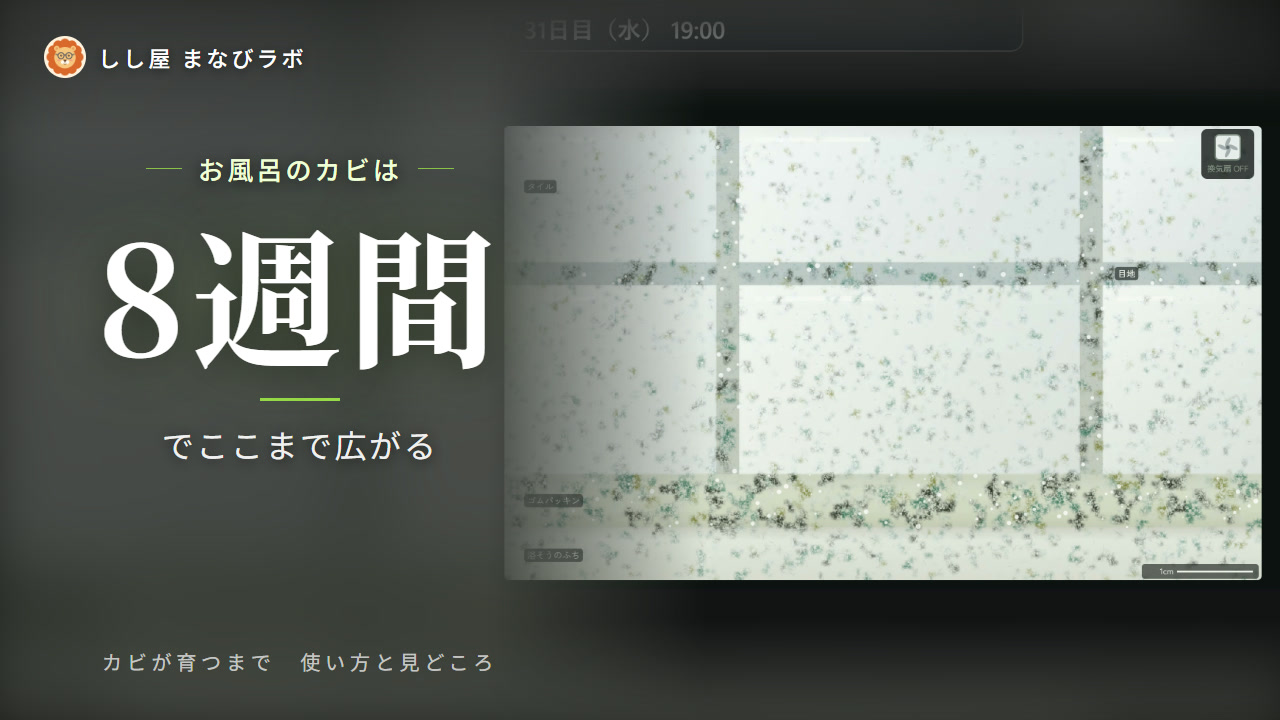
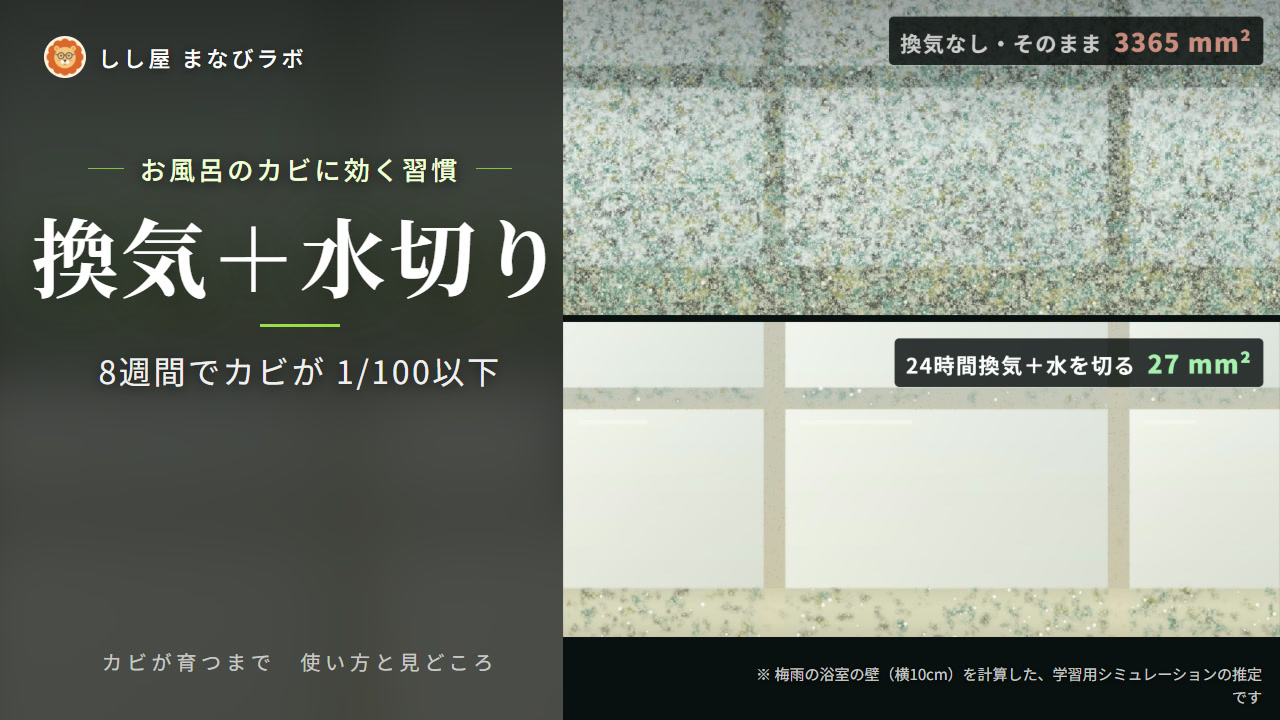
promo: カビのサムネイルを作りなおす（同じ壁・同じ8週間を換気なしと換気＋水切りでくらべる絵、文言「換気＋水切り」）

diff --git a/_dev/promo/mold-still.html b/_dev/promo/mold-still.html
@@ -1,0 +1,48 @@
+<!doctype html>
+<html lang="ja">
+<head>
+<meta charset="utf-8">
+<title>カビ: サムネイル用の絵（くらべる）</title>
+<!-- サムネイル用の絵 stills/mold-growth-compare.jpg（2160×3840）を作るページ。http://localhost:8765/_dev/promo/mold-still.html を
+     ヘッドレスの Chrome で 2160×3840 に撮る（--virtual-time-budget で箱庭の計算を待つ）。
+     同じ浴室の壁・同じ乱数で、梅雨の8週間を2つの習慣で計算し、上下に並べる（上: 換気なし・そのまま、下: 24時間換気＋水を切る）。
+     short-thumb.html は上半分（y 0〜1920）だけをくっきり見せるので、2つの帯はそこに入れる。数はアプリの記録の表と同じ W.stats.visArea -->
+<style>
+  html, body { margin: 0; width: 2160px; height: 3840px; overflow: hidden; background: #0b0f10; font-family: 'Noto Sans JP', 'Yu Gothic', sans-serif; }
+  .band { position: absolute; left: 0; width: 2160px; height: 950px; overflow: hidden; }
+  .band iframe { position: absolute; left: 0; top: 0; width: 3240px; height: 1425px; border: 0; }
+  #b1 { top: 0; } #b2 { top: 970px; }
+  .tag { position: absolute; right: 50px; top: 50px; padding: 18px 34px; border-radius: 14px; background: rgba(8,12,14,0.82);
+    color: #fff; font-size: 64px; font-weight: 700; letter-spacing: 0.06em; display: flex; gap: 34px; align-items: baseline; }
+  .tag b { font-size: 76px; }
+  #b1 .tag b { color: #ffb0a0; } #b2 .tag b { color: #a8f0b0; }
+</style>
+</head>
+<body>
+<div class="band" id="b1"><iframe></iframe><div class="tag"><span>換気なし・そのまま</span><b></b></div></div>
+<div class="band" id="b2"><iframe></iframe><div class="tag"><span>24時間換気＋水を切る</span><b></b></div></div>
+<script>
+const SET = [{ id: 'b1', habits: { fan: 'none', after: 'none' } }, { id: 'b2', habits: { fan: 'h24', after: 'squeegee' } }];
+for (const s of SET) {
+  const f = document.querySelector('#' + s.id + ' iframe');
+  f.onload = () => {
+    const w = f.contentWindow, M = w.__mk;
+    const st = w.document.createElement('style');
+    st.textContent = '#world{position:fixed!important;left:0!important;top:0!important;width:3240px!important;height:1425px!important;max-width:none!important;z-index:999}';
+    w.document.head.append(st);
+    M.UI.playing = false;
+    Object.assign(M.W.habits, { season: 'rainy', clean: 'none' }, s.habits);
+    w.restart();
+    Object.assign(M.VIEW, { hidden: false, moist: false, labels: false, zoom: 1, cx: 50, cy: 30 });
+    M.run(56 * 24);
+    M.frame(2, 0.03);
+    // 壁の枠（VIEW.frame）を横いっぱいに広げ、上を少し切る（目地の交わりとゴムパッキンが入る高さ）
+    const F = M.VIEW.frame, k = 2160 / F.w, cut = Math.max(0, F.h * k - 950) * 0.55;
+    Object.assign(f.style, { transformOrigin: '0 0', transform: `translate(0px, ${-cut}px) scale(${k}) translate(${-F.x}px, ${-F.y}px)` });
+    document.querySelector('#' + s.id + ' .tag b').textContent = M.W.stats.visArea.toFixed(0) + ' mm²';
+  };
+  f.src = '../../mold-growth/index.html?lang=ja';
+}
+</script>
+</body>
+</html>

diff --git a/_dev/promo/short-thumbs.js b/_dev/promo/short-thumbs.js
@@ -1,6 +1,7 @@
 // ショートのサムネイル（1080×1920）の中身。描くのは short-thumb.html、作るのは _dev/tools/make-short-thumbs.ps1（RULES 8.7）
 // t: ショートの mp4 から取るコマの秒。focus: 絵の中で見せたい点（0〜1、左上が 0,0）、zoom: 寄せる倍率（1 = 横いっぱい）
 // kicker: 上の小さな一言、big: いちばん大きな言葉（数字や驚き）、sub: 下の言葉。c1・c2: big の色（上から下へ）
+// wmask: false で横長の絵のふちをぼかさない（くらべる絵の札が消えないように）
 // still: mp4 のコマのかわりに使う絵（2160×3840、stills/）。note: 右下の小さな注（※。絵の演出をことわる）
 // 数字は動画・アプリで出している値だけ（想像で盛らない）
 window.SHORT_THUMBS = {
@@ -18,7 +19,8 @@ window.SHORT_THUMBS = {
   'ga-creatures':  { name: '進化の箱庭', t: 26, focus: [0.64, 0.31], zoom: 3.6, kicker: 'でたらめな生きものが', big: '40世代', sub: 'で走り方を身につける', c1: '#e8ffe0', c2: '#5ee35e' },
   'god-view':      { name: '神の視点マップ', t: 12, focus: [0.5, 0.38], zoom: 1.5, wfocus: [0.5, 0.34], kicker: 'ホイールひとつで', big: '宇宙の果て', sub: 'からクォークまで', c1: '#e3f4ff', c2: '#5bb8ff' },
   'wifi-wave':     { name: '電波の見える部屋', t: 29, focus: [0.3, 0.3], zoom: 1.9, kicker: 'WiFi の電波を見える化', big: '5 GHz', sub: 'は壁の向こうで弱くなる', c1: '#fff0d0', c2: '#ff9a2e' },
-  'mold-growth':   { name: 'カビが育つまで', t: 29, focus: [0.5, 0.39], zoom: 1.7, kicker: 'お風呂のカビは', big: '8週間', sub: 'でここまで広がる', c1: '#f0ffd8', c2: '#9be04a' },
+  // 2026-10-22: 淡い壁に「8週間」で目を引かなかった → 同じ壁・同じ梅雨の8週間を2つの習慣でくらべる絵（mold-still.html で撮る。数はアプリの記録の表と同じ）
+  'mold-growth':   { name: 'カビが育つまで', t: 29, still: 'stills/mold-growth-compare.jpg', focus: [0.5, 0], zoom: 1, wzoom: 0.56, wfocus: [0.5, 0.25], wmask: false, kicker: 'お風呂のカビに効く習慣', big: '換気＋水切り', sub: '8週間でカビが 1/100以下', note: '※ 梅雨の浴室の壁（横10cm）を計算した、学習用シミュレーションの推定です', c1: '#f0ffd8', c2: '#9be04a' },
   'piano-hand':    { name: 'ピアノを弾く手', t: 21.6, focus: [0.62, 0.62], zoom: 1.35, kicker: '皮ふの下では', big: '骨と筋肉', sub: 'がこう動いている', c1: '#ffe6e0', c2: '#ff6b5c' },
   'pitch-physics': { name: '変化球のしくみ', t: 31, focus: [0.5, 0.36], zoom: 1.45, wfocus: [0.5, 0.4], kicker: '同じねらいで投げても', big: 'ナックル', sub: '左右 38 cm・上下 47 cm ばらける', c1: '#fff6d8', c2: '#ffd166' },
   'wave-growth':   { name: '波が育つまで', t: 31, focus: [0.5, 0.42], zoom: 1.3, kicker: '凪の海に風が吹いて', big: '約30時間', sub: 'で育ちきる。高さ 3.1 m', c1: '#fff3d6', c2: '#ffc46b' }

diff --git a/_dev/promo/short-thumb.html b/_dev/promo/short-thumb.html
@@ -67,7 +67,9 @@
 const q = new URLSearchParams(location.search);
 const app = q.get('app') || 'evolution', wide = q.has('wide');
 if (wide) { document.documentElement.classList.add('wide'); document.body.classList.add('wide'); }
-const c = SHORT_THUMBS[app];
+const c = { ...SHORT_THUMBS[app] };
+// 文言の案を見くらべるとき: ?kicker=…&big=…&sub=… で表の言葉を差しかえる（表は変えない）
+for (const k of ['kicker', 'big', 'sub', 'note']) if (q.has(k)) c[k] = q.get(k);
 const root = document.documentElement.style;
 root.setProperty('--c1', c.c1); root.setProperty('--c2', c.c2); root.setProperty('--glow', c.c2 + '40');
 document.getElementById('kicker').textContent = c.kicker;
@@ -90,7 +92,7 @@ const bg = document.getElementById('bg');
 Object.assign(bg.style, { width: W + 'px', height: H + 'px', left: x0 + 'px', top: y0 + 'px' });
 bg.src = 'out/thumbsrc/' + app + '.jpg';
 // 横長: 左・上・下のふちをぼかす（アプリの上の小さな札や、ショートの字幕の端が見えないように）。マスクは絵の箱が基準なので画面の位置に直す
-if (wide) { const t = -y0, m = `linear-gradient(to right, transparent 0, #000 220px), linear-gradient(to bottom, transparent ${t}px, #000 ${t + 110}px, #000 ${t + 620}px, transparent ${t + 720}px)`;
+if (wide && c.wmask !== false) { const t = -y0, m = `linear-gradient(to right, transparent 0, #000 220px), linear-gradient(to bottom, transparent ${t}px, #000 ${t + 110}px, #000 ${t + 620}px, transparent ${t + 720}px)`;
   bg.style.webkitMaskImage = bg.style.maskImage = m; bg.style.maskComposite = 'intersect'; bg.style.webkitMaskComposite = 'source-in'; }
 if (wide) { const b2 = document.getElementById('bg2'), BH = 1400 * 16 / 9;
   Object.assign(b2.style, { width: '1400px', height: BH + 'px', left: '-60px', top: Math.min(-40, 360 - fy * BH) + 'px' }); b2.src = bg.src; }
